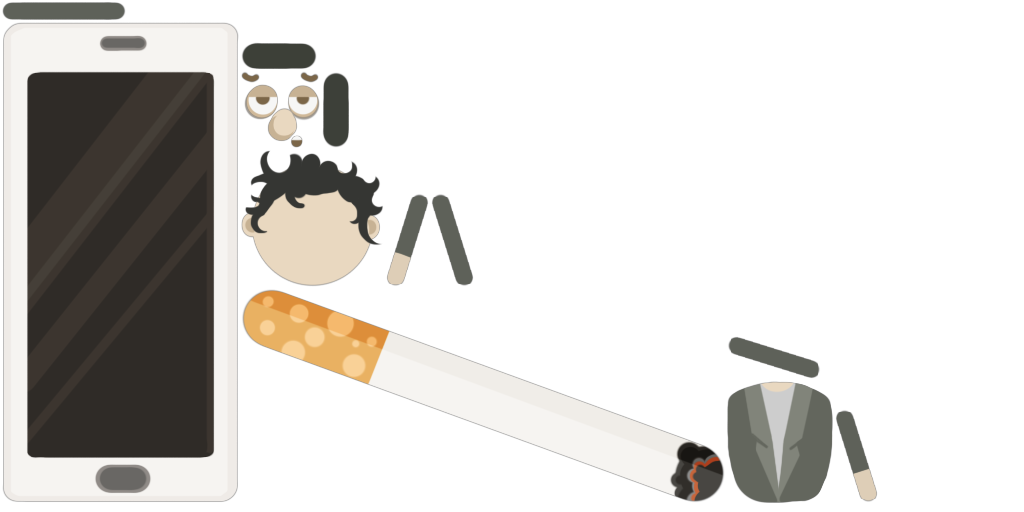
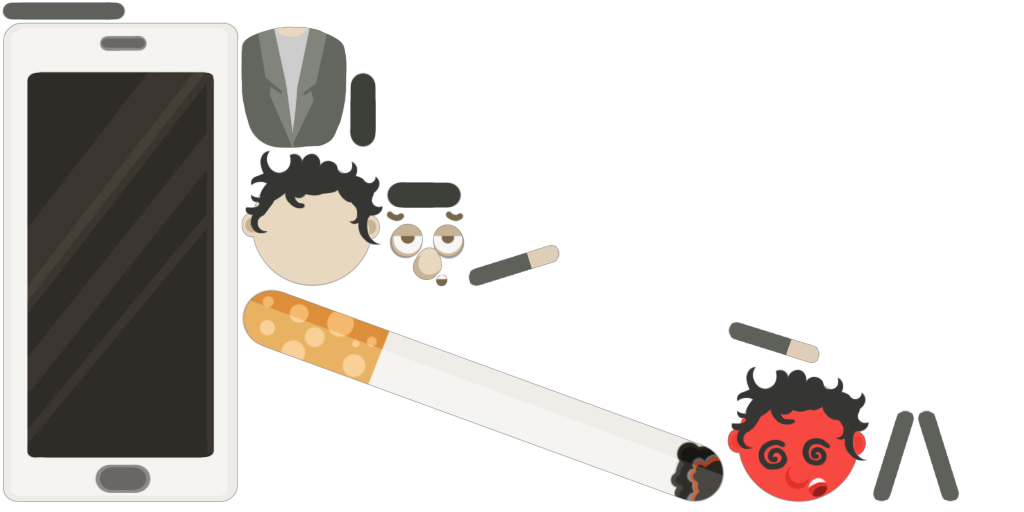
stuff 7

Changed region(s): [[0.6875, 0.625, 0.9375, 1.0], [0.2188, 0.0312, 0.375, 0.3125], [0.375, 0.3438, 0.5625, 0.5625]]

diff --git a/Assets/Scripts/GameManager.cs b/Assets/Scripts/GameManager.cs
@@ -294,6 +294,7 @@ public class GameManager : MonoBehaviour
 
 		if (HeartCounter.totalHearts <= 0) 
 		{
+			player.Faint ();
 			movePattern.StopPattern ();
 			state = InGameState.AMBULANCE_COMING;
 			ambulanceBuss.StartBussComing ();

diff --git a/Assets/Scripts/MusicPlayer.cs b/Assets/Scripts/MusicPlayer.cs
@@ -5,8 +5,11 @@ public class MusicPlayer : MonoBehaviour
 {
 	public AudioClip musicClip;
 
+	private AudioSource musicSource;
+
 	void Start () 
 	{
+		musicSource = GetComponent<AudioSource>();
 	}
 	
 	void Update () 

diff --git a/Assets/Scripts/Character.cs b/Assets/Scripts/Character.cs
@@ -64,4 +64,9 @@ public class Character : MonoBehaviour
 			audioSource.PlayOneShot (busAudio [index]);
 		}
 	}
+
+	public void Faint()
+	{
+		spine.state.SetAnimation(0, "Fainting", false);
+	}
 }
